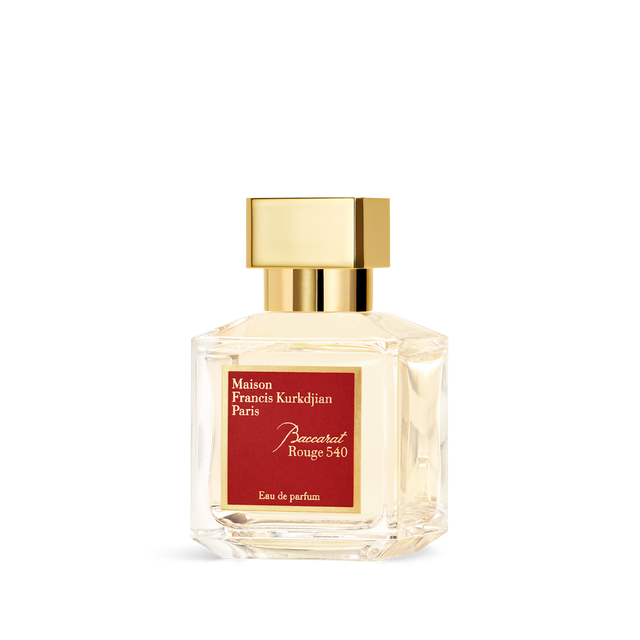
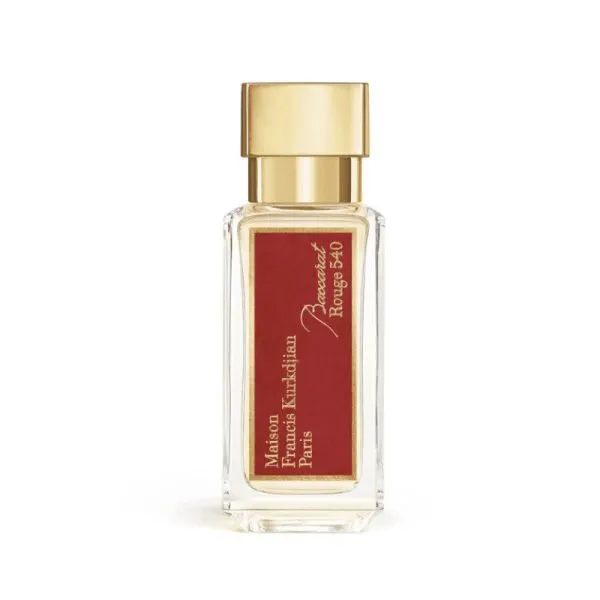
Add files via upload

Changed region(s): [[0.3, 0.12, 0.72, 0.9]]

diff --git a/gift2.html b/gift2.html
@@ -3,7 +3,7 @@
 <head>
   <meta charset="UTF-8" />
   <meta name="viewport" content="width=device-width, initial-scale=1" />
-  <title>Maison Éclat | NISHANE ANI</title>
+  <title>Maison Éclat | Baccarat Rouge 540</title>
 
   <link href="https://fonts.googleapis.com/css2?family=Playfair+Display&display=swap" rel="stylesheet">
   <link rel="stylesheet" href="style.css">
@@ -34,51 +34,53 @@
   </nav>
 </header>
 
-<section class="product-detail" aria-label="Информация за продукта NISHANE ANI">
+<section class="product-detail" aria-label="Информация за продукта Baccarat Rouge 540">
   <div class="product-gallery">
-    <img class="main-image" id="mainImage" src="nishane-ani1.webp" alt="Парфюм NISHANE ANI" />
+    <img class="main-image" id="mainImage" src="baccarat-rouge.webp" alt="Парфюм Baccarat Rouge 540" />
     <div class="thumbnails">
-      <img src="nishane-ani1.webp" alt="NISHANE ANI основна снимка" class="selected" />
-      <img src="nishane-ani2.webp" alt="NISHANE ANI флакон 2" />
+      <img src="baccarat-rouge.webp" alt="Baccarat Rouge 540 основна снимка" class="selected" />
+      <img src="baccarat-rouge1.webp" alt="Baccarat Rouge 540 флакон 2" />
     </div>
   </div>
 
   <div class="product-info">
-    <h2>NISHANE ANI – Unisex</h2>
+    <h2>Baccarat Rouge 540 – Unisex</h2>
     <p>
-      Емблематичен нишов аромат с ванилия, бергамот, джинджифил и кехлибар. Подходящ както за мъже, така и за жени, отличаващ се с дълготрайност и елегантно присъствие.
+      Иконичен унисекс аромат от Maison Francis Kurkdjian, съчетаващ топли подправки, цветни и дървесни акценти за дълбок, луксозен характер.  
+      Baccarat Rouge 540 предлага уникална комбинация от сладост и дървесност, която го прави подходящ както за ден, така и за вечер. ([wikiscents.com](https://www.wikiscents.com/perfume/maison-francis-kurkdjian/baccarat-rouge-540/1982?utm_source=chatgpt.com))
     </p>
 
-    <span class="price" id="price">€330</span>
+    <!-- Цена и избор на разфасовка -->
+    <span class="price" id="price">€310</span>
 
-    <!-- Избор на разфасовка -->
     <label for="size">Избери разфасовка:</label>
     <select id="size" name="size" aria-label="Изберете разфасовка" onchange="updatePrice()">
-      <option value="100">100 ml</option>
-      <option value="50">50 ml</option>
+      <option value="70">70 ml</option>
+      <option value="35">35 ml</option>
     </select>
 
     <!-- Пирамида на нотките и дълготрайност -->
     <details>
-      <summary>📌 Пирамида на аромата и дълготрайност</summary>
+      <summary>📌 Пирамида на нотките и дълготрайност</summary>
+
       <h4>🍃 Пирамида на аромата</h4>
       <ul>
-        <li><strong>Горни нотки:</strong> Бергамот, джинджифил, розов пипер, зелени нотки</li>
-        <li><strong>Средни нотки:</strong> Кардамон, черна касис, турска роза</li>
-        <li><strong>Базови нотки:</strong> Ванилия, бензоин, сандалово дърво, кедър, пачули, амбър, мускус</li>
+        <li><strong>Горни нотки:</strong> Жасмин, шафран</li>
+        <li><strong>Средни нотки:</strong> Амбъруд, амбъргрис</li>
+        <li><strong>Базови нотки:</strong> Смола от ела, кедър</li>
       </ul>
 
       <h4>⏱ Дълготрайност и проекция</h4>
       <p>
-        *Nishane Ani* е известен с отлична дълготрайност (около <strong>10–12 часа</strong>) и силна проекция,
-        което го прави подходящ за специални случаи, студено време и нощни излизания.
+        Baccarat Rouge 540 има много добра дълготрайност (около <strong>8–12 часа</strong>) и умерена проекция, оставяйки изискан ароматен след около носещия го.
       </p>
     </details>
 
-    <!-- Информация за продукта -->
     <details>
       <summary>Информация за продукта</summary>
-      <p>Парфюмът е изключително дълготраен и подходящ за всеки повод. Създаден е с внимание към детайла, от премиум съставки.</p>
+      <p>
+        Baccarat Rouge 540 е създаден през 2015 г. от Франсис Куркджан в чест на 250-годишнината на Baccarat Crystal. Ароматът пленява сетивата още от първите минути.
+      </p>
     </details>
 
     <!-- Бутони -->
@@ -108,9 +110,9 @@
     <!-- Ревюта -->
     <details>
       <summary>⭐ Ревюта</summary>
-      <p><strong>Иван Д.</strong>: Отличен аромат, носи се дълго!</p>
-      <p><strong>Георги П.</strong>: Доставката беше бърза, а продуктът изглежда луксозно.</p>
-      <p><strong>Петър Л.</strong>: Прекрасен избор за подарък!</p>
+      <p><strong>Иван Д.</strong>: Изключително богат и елегантен аромат!</p>
+      <p><strong>Георги П.</strong>: Доставката беше бърза, а парфюмът впечатлява.</p>
+      <p><strong>Петър Л.</strong>: Прекрасен избор за специални поводи.</p>
 
       <div class="review-form">
         <h4>Остави своето мнение</h4>
@@ -152,10 +154,10 @@
     const size = document.getElementById("size").value;
     const price = document.getElementById("price");
 
-    if (size === "100") {
-      price.textContent = "€330";
-    } else if (size === "50") {
-      price.textContent = "€220";
+    if (size === "70") {
+      price.textContent = "€310";
+    } else if (size === "35") {
+      price.textContent = "€180";
     }
   }
 </script>

diff --git a/gift3.html b/gift3.html
@@ -1,0 +1,150 @@
+<!DOCTYPE html>
+<html lang="bg">
+<head>
+  <meta charset="UTF-8" />
+  <meta name="viewport" content="width=device-width, initial-scale=1" />
+  <title>Maison Éclat | Amouage Reflection 45</title>
+
+  <link href="https://fonts.googleapis.com/css2?family=Playfair+Display&display=swap" rel="stylesheet">
+  <link rel="stylesheet" href="style.css">
+</head>
+<body>
+
+<header>
+  <div class="top-bar">
+    Безплатна доставка и връщане на всички поръчки
+  </div>
+
+  <nav class="navbar">
+    <div class="logo">MAISON ÉCLAT</div>
+    <ul class="menu">
+      <li><a href="index.html">НАЧАЛО</a></li>
+      <li><a href="menproducts.html">МЪЖЕ</a></li>
+      <li><a href="womenproducts.html">ЖЕНИ</a></li>
+      <li><a href="kidsproducts.html">ДЕЦА</a></li>
+      <li><a href="homecollection.html">ДОМ</a></li>
+      <li><a href="gifts.html">ПОДАРЪЦИ</a></li>
+      <li><a href="discover.html">ОТКРИЙ</a></li>
+    </ul>
+    <div class="icons">
+      <a href="#">🔍</a>
+      <a href="#">♡</a>
+      <a href="#">🛍</a>
+    </div>
+  </nav>
+</header>
+
+<section class="product-detail" aria-label="Информация за продукта Amouage Reflection 45">
+  <div class="product-gallery">
+    <img class="main-image" id="mainImage" src="amouage-reflection-45-extrait-de-parfum.jpg" alt="Amouage Reflection 45" />
+    <div class="thumbnails">
+      <img src="amouage-reflection-45-extrait-de-parfum.jpg" alt="Amouage Reflection 45 основна снимка" class="selected" />
+      <img src="amouage.webp" alt="Amouage Reflection 45 флакон" />
+    </div>
+  </div>
+
+  <div class="product-info">
+    <h2>Amouage Reflection 45 – Unisex</h2>
+    <p>
+      Amouage Reflection 45 е изключително луксозен и дълбок аромат,
+      който представлява по-концентрирана и интензивна интерпретация
+      на класическия Reflection. Ароматът съчетава кремообразни флорални
+      нотки с богата дървесна основа, създавайки усещане за елегантност,
+      увереност и изтънченост.
+    </p>
+
+    <!-- Цена и избор на разфасовка -->
+    <span class="price" id="price">€430</span>
+
+    <label for="size">Избери разфасовка:</label>
+    <select id="size" name="size" aria-label="Изберете разфасовка" onchange="updatePrice()">
+      <option value="100">100 ml</option>
+      <option value="50">50 ml</option>
+    </select>
+
+    <!-- Пирамида и дълготрайност -->
+    <details>
+      <summary>📌 Пирамида на нотките и дълготрайност</summary>
+
+      <h4>🍃 Пирамида на аромата</h4>
+      <ul>
+        <li><strong>Горни нотки:</strong> Лавандула, розов пипер, бензоин</li>
+        <li><strong>Средни нотки:</strong> Ирис, жасмин, нероли</li>
+        <li><strong>Базови нотки:</strong> Сандалово дърво, ветивер, пачули, кедър</li>
+      </ul>
+
+      <h4>⏱ Дълготрайност и проекция</h4>
+      <p>
+        Amouage Reflection 45 се отличава с изключителна дълготрайност
+        (<strong>12+ часа</strong>) и силна, но елегантна проекция,
+        оставяща луксозен ароматен шлейф.
+      </p>
+    </details>
+
+    <details>
+      <summary>Информация за продукта</summary>
+      <p>
+        Reflection 45 е създаден като Extrait de Parfum,
+        който подчертава дълбочината и богатството на оригиналната
+        композиция. Това е аромат за ценители, които търсят
+        нещо наистина изключително и неподвластно на времето.
+      </p>
+    </details>
+
+    <!-- Бутони -->
+    <div class="buttons">
+      <button class="btn" type="button">Добави в количка</button>
+      <a href="favourites.html" class="fav-btn" title="Добави в Любими">ДОБАВИ В ЛЮБИМИ</a>
+    </div>
+
+    <!-- Доставка -->
+    <details>
+      <summary>🚚 Доставка и връщане</summary>
+      <p>Безплатна доставка за всички поръчки. Възможност за връщане до 30 дни. Доставяме в рамките на 2–5 работни дни.</p>
+    </details>
+
+    <!-- Плащане -->
+    <details>
+      <summary>💳 Опции за плащане</summary>
+      <ul>
+        <li>Visa</li>
+        <li>Mastercard</li>
+        <li>American Express</li>
+        <li>Наложен платеж</li>
+      </ul>
+    </details>
+
+    <!-- Ревюта -->
+    <details>
+      <summary>⭐ Ревюта</summary>
+      <p><strong>Николай К.</strong>: Изключително елегантен и дълбок аромат.</p>
+      <p><strong>Александър М.</strong>: Много по-интензивен от оригиналния Reflection.</p>
+      <p><strong>Даниел С.</strong>: Истински нишов парфюм за ценители.</p>
+    </details>
+  </div>
+</section>
+
+<footer>
+  <p>© 2025 Maison Éclat. Всички права запазени.</p>
+</footer>
+
+<script>
+  // Смяна на снимките
+  const mainImage = document.getElementById('mainImage');
+  const thumbnails = document.querySelectorAll('.thumbnails img');
+
+  thumbnails.forEach((thumb) => {
+    thumb.addEventListener('click', () => {
+      mainImage.src = thumb.src;
+      mainImage.alt = thumb.alt;
+
+      thumbnails.forEach(img => img.classList.remove('selected'));
+      thumb.classList.add('selected');
+    });
+  });
+
+  
+</script>
+
+</body>
+</html>
